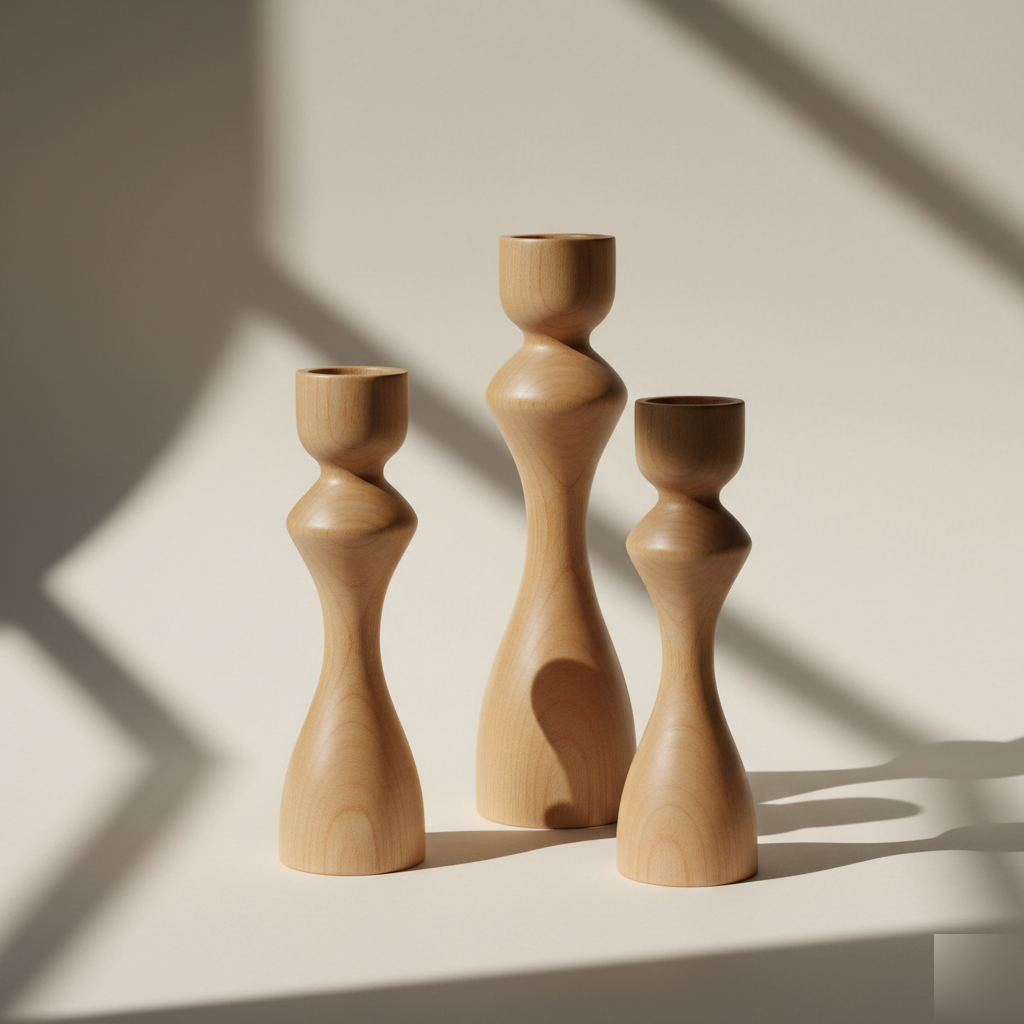
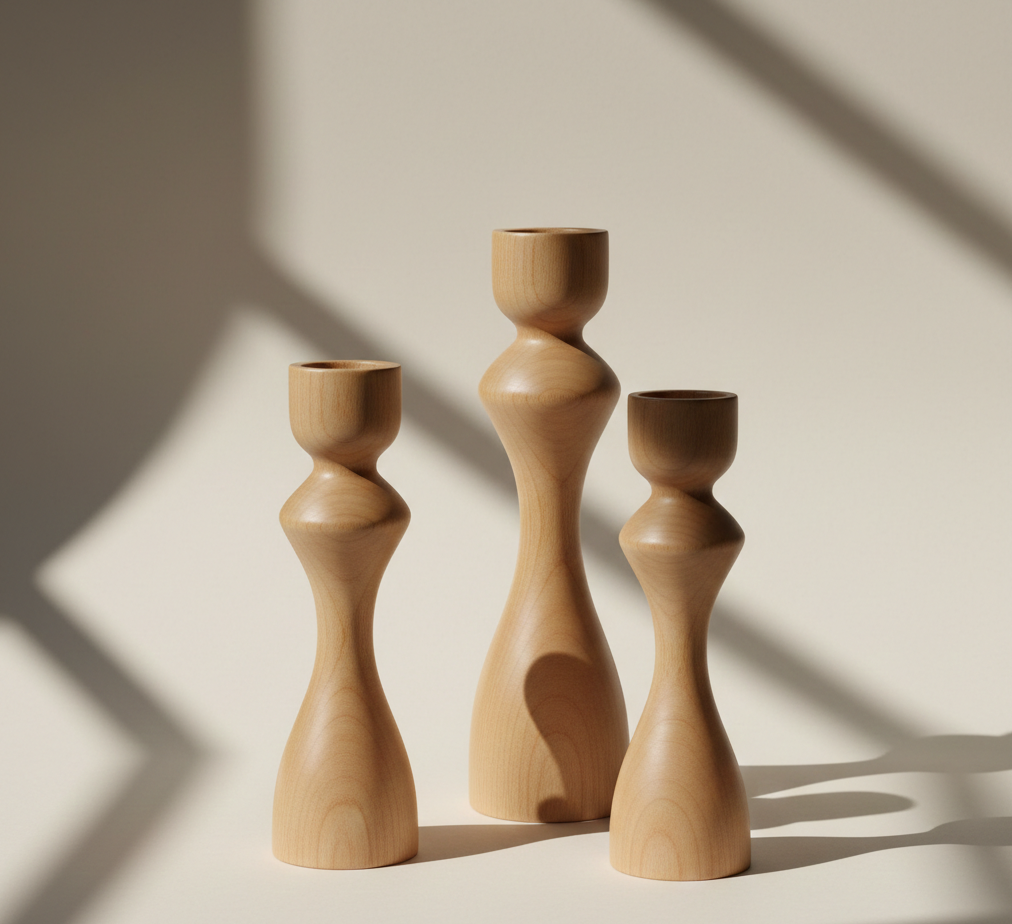
feat: duvar saati koleksiyonuna 47 yeni model eklendi
- 47 yeni duvar saati fotoğrafı images/duvar-saati/y1-y47.png olarak eklendi
- ahsap-duvar-saati.html sayfasına tüm 47 modeli gösteren Koleksiyon Galerisi bölümü eklendi
- Önceki seansdan kalan görsel güncellemeleri (watermark kaldırma) commit edildi

diff --git a/masif-atolye/ahsap-duvar-saati.html b/masif-atolye/ahsap-duvar-saati.html
@@ -80,7 +80,7 @@
           <p class="product-hero-desc">Doğal kayın ağacından, sade ve estetik tasarımlar. İsim, tarih veya logo ile kişiselleştirin — size özel bir saat.</p>
           <div class="product-hero-cta">
             <a href="https://wa.me/905067786885" class="btn-primary" target="_blank">WhatsApp'tan Yazın ↗</a>
-            <a href="#modeller" class="btn-outline">Modelleri Keşfet ↓</a>
+            <a href="#koleksiyon" class="btn-outline">47 Modeli Keşfet ↓</a>
           </div>
         </div>
         <!-- Gallery -->
@@ -251,6 +251,67 @@
         <div class="img-card">
           <img src="images/duvar-saati/10-1.png" alt="Duvar saati mekân görseli 6" loading="lazy" data-lightbox="images/duvar-saati/10-1.png"/>
         </div>
+      </div>
+    </div>
+  </section>
+
+  <!-- Koleksiyon Galerisi -->
+  <section class="content-section reveal" id="koleksiyon">
+    <div class="container">
+      <div class="section-label">Tüm Koleksiyon</div>
+      <h2>47 Farklı <em>Model</em></h2>
+      <p class="subtitle">Beğendiğiniz modeli WhatsApp'tan bizimle paylaşın, size özel üretelim.</p>
+      <div class="img-grid-4" style="margin-top: 2rem;">
+        <div class="img-card"><img src="images/duvar-saati/y1.png" alt="Duvar saati model 1" loading="lazy" data-lightbox="images/duvar-saati/y1.png"/></div>
+        <div class="img-card"><img src="images/duvar-saati/y2.png" alt="Duvar saati model 2" loading="lazy" data-lightbox="images/duvar-saati/y2.png"/></div>
+        <div class="img-card"><img src="images/duvar-saati/y3.png" alt="Duvar saati model 3" loading="lazy" data-lightbox="images/duvar-saati/y3.png"/></div>
+        <div class="img-card"><img src="images/duvar-saati/y4.png" alt="Duvar saati model 4" loading="lazy" data-lightbox="images/duvar-saati/y4.png"/></div>
+        <div class="img-card"><img src="images/duvar-saati/y5.png" alt="Duvar saati model 5" loading="lazy" data-lightbox="images/duvar-saati/y5.png"/></div>
+        <div class="img-card"><img src="images/duvar-saati/y6.png" alt="Duvar saati model 6" loading="lazy" data-lightbox="images/duvar-saati/y6.png"/></div>
+        <div class="img-card"><img src="images/duvar-saati/y7.png" alt="Duvar saati model 7" loading="lazy" data-lightbox="images/duvar-saati/y7.png"/></div>
+        <div class="img-card"><img src="images/duvar-saati/y8.png" alt="Duvar saati model 8" loading="lazy" data-lightbox="images/duvar-saati/y8.png"/></div>
+        <div class="img-card"><img src="images/duvar-saati/y9.png" alt="Duvar saati model 9" loading="lazy" data-lightbox="images/duvar-saati/y9.png"/></div>
+        <div class="img-card"><img src="images/duvar-saati/y10.png" alt="Duvar saati model 10" loading="lazy" data-lightbox="images/duvar-saati/y10.png"/></div>
+        <div class="img-card"><img src="images/duvar-saati/y11.png" alt="Duvar saati model 11" loading="lazy" data-lightbox="images/duvar-saati/y11.png"/></div>
+        <div class="img-card"><img src="images/duvar-saati/y12.png" alt="Duvar saati model 12" loading="lazy" data-lightbox="images/duvar-saati/y12.png"/></div>
+        <div class="img-card"><img src="images/duvar-saati/y13.png" alt="Duvar saati model 13" loading="lazy" data-lightbox="images/duvar-saati/y13.png"/></div>
+        <div class="img-card"><img src="images/duvar-saati/y14.png" alt="Duvar saati model 14" loading="lazy" data-lightbox="images/duvar-saati/y14.png"/></div>
+        <div class="img-card"><img src="images/duvar-saati/y15.png" alt="Duvar saati model 15" loading="lazy" data-lightbox="images/duvar-saati/y15.png"/></div>
+        <div class="img-card"><img src="images/duvar-saati/y16.png" alt="Duvar saati model 16" loading="lazy" data-lightbox="images/duvar-saati/y16.png"/></div>
+        <div class="img-card"><img src="images/duvar-saati/y17.png" alt="Duvar saati model 17" loading="lazy" data-lightbox="images/duvar-saati/y17.png"/></div>
+        <div class="img-card"><img src="images/duvar-saati/y18.png" alt="Duvar saati model 18" loading="lazy" data-lightbox="images/duvar-saati/y18.png"/></div>
+        <div class="img-card"><img src="images/duvar-saati/y19.png" alt="Duvar saati model 19" loading="lazy" data-lightbox="images/duvar-saati/y19.png"/></div>
+        <div class="img-card"><img src="images/duvar-saati/y20.png" alt="Duvar saati model 20" loading="lazy" data-lightbox="images/duvar-saati/y20.png"/></div>
+        <div class="img-card"><img src="images/duvar-saati/y21.png" alt="Duvar saati model 21" loading="lazy" data-lightbox="images/duvar-saati/y21.png"/></div>
+        <div class="img-card"><img src="images/duvar-saati/y22.png" alt="Duvar saati model 22" loading="lazy" data-lightbox="images/duvar-saati/y22.png"/></div>
+        <div class="img-card"><img src="images/duvar-saati/y23.png" alt="Duvar saati model 23" loading="lazy" data-lightbox="images/duvar-saati/y23.png"/></div>
+        <div class="img-card"><img src="images/duvar-saati/y24.png" alt="Duvar saati model 24" loading="lazy" data-lightbox="images/duvar-saati/y24.png"/></div>
+        <div class="img-card"><img src="images/duvar-saati/y25.png" alt="Duvar saati model 25" loading="lazy" data-lightbox="images/duvar-saati/y25.png"/></div>
+        <div class="img-card"><img src="images/duvar-saati/y26.png" alt="Duvar saati model 26" loading="lazy" data-lightbox="images/duvar-saati/y26.png"/></div>
+        <div class="img-card"><img src="images/duvar-saati/y27.png" alt="Duvar saati model 27" loading="lazy" data-lightbox="images/duvar-saati/y27.png"/></div>
+        <div class="img-card"><img src="images/duvar-saati/y28.png" alt="Duvar saati model 28" loading="lazy" data-lightbox="images/duvar-saati/y28.png"/></div>
+        <div class="img-card"><img src="images/duvar-saati/y29.png" alt="Duvar saati model 29" loading="lazy" data-lightbox="images/duvar-saati/y29.png"/></div>
+        <div class="img-card"><img src="images/duvar-saati/y30.png" alt="Duvar saati model 30" loading="lazy" data-lightbox="images/duvar-saati/y30.png"/></div>
+        <div class="img-card"><img src="images/duvar-saati/y31.png" alt="Duvar saati model 31" loading="lazy" data-lightbox="images/duvar-saati/y31.png"/></div>
+        <div class="img-card"><img src="images/duvar-saati/y32.png" alt="Duvar saati model 32" loading="lazy" data-lightbox="images/duvar-saati/y32.png"/></div>
+        <div class="img-card"><img src="images/duvar-saati/y33.png" alt="Duvar saati model 33" loading="lazy" data-lightbox="images/duvar-saati/y33.png"/></div>
+        <div class="img-card"><img src="images/duvar-saati/y34.png" alt="Duvar saati model 34" loading="lazy" data-lightbox="images/duvar-saati/y34.png"/></div>
+        <div class="img-card"><img src="images/duvar-saati/y35.png" alt="Duvar saati model 35" loading="lazy" data-lightbox="images/duvar-saati/y35.png"/></div>
+        <div class="img-card"><img src="images/duvar-saati/y36.png" alt="Duvar saati model 36" loading="lazy" data-lightbox="images/duvar-saati/y36.png"/></div>
+        <div class="img-card"><img src="images/duvar-saati/y37.png" alt="Duvar saati model 37" loading="lazy" data-lightbox="images/duvar-saati/y37.png"/></div>
+        <div class="img-card"><img src="images/duvar-saati/y38.png" alt="Duvar saati model 38" loading="lazy" data-lightbox="images/duvar-saati/y38.png"/></div>
+        <div class="img-card"><img src="images/duvar-saati/y39.png" alt="Duvar saati model 39" loading="lazy" data-lightbox="images/duvar-saati/y39.png"/></div>
+        <div class="img-card"><img src="images/duvar-saati/y40.png" alt="Duvar saati model 40" loading="lazy" data-lightbox="images/duvar-saati/y40.png"/></div>
+        <div class="img-card"><img src="images/duvar-saati/y41.png" alt="Duvar saati model 41" loading="lazy" data-lightbox="images/duvar-saati/y41.png"/></div>
+        <div class="img-card"><img src="images/duvar-saati/y42.png" alt="Duvar saati model 42" loading="lazy" data-lightbox="images/duvar-saati/y42.png"/></div>
+        <div class="img-card"><img src="images/duvar-saati/y43.png" alt="Duvar saati model 43" loading="lazy" data-lightbox="images/duvar-saati/y43.png"/></div>
+        <div class="img-card"><img src="images/duvar-saati/y44.png" alt="Duvar saati model 44" loading="lazy" data-lightbox="images/duvar-saati/y44.png"/></div>
+        <div class="img-card"><img src="images/duvar-saati/y45.png" alt="Duvar saati model 45" loading="lazy" data-lightbox="images/duvar-saati/y45.png"/></div>
+        <div class="img-card"><img src="images/duvar-saati/y46.png" alt="Duvar saati model 46" loading="lazy" data-lightbox="images/duvar-saati/y46.png"/></div>
+        <div class="img-card"><img src="images/duvar-saati/y47.png" alt="Duvar saati model 47" loading="lazy" data-lightbox="images/duvar-saati/y47.png"/></div>
+      </div>
+      <div style="text-align:center; margin-top: 2.5rem;">
+        <a href="https://wa.me/905067786885" class="btn-primary" target="_blank">Beğendiğiniz Modeli Yazın ↗</a>
       </div>
     </div>
   </section>
